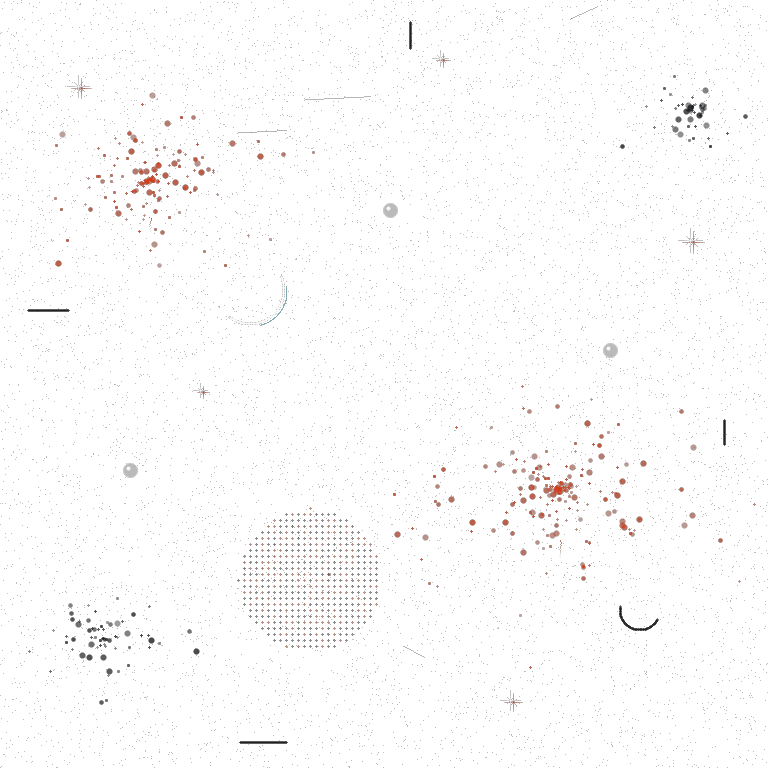
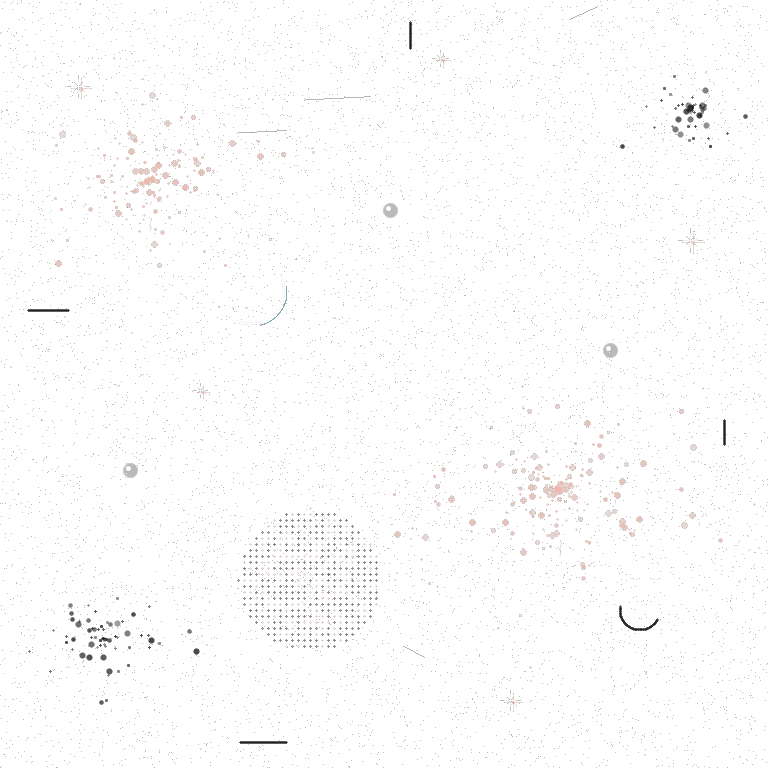
Buff the wall instead of splattering it.
The ground is a roller of council paint, a torn paste-up, and stencil overspray. The night grain is quieter so those marks read before the stipple, and day washes the same wall back.

diff --git a/css/cc.css b/css/cc.css
@@ -1,7 +1,8 @@
 /* ==========================================================================
    Club Copy — one stylesheet.
-   Night is the default: a light concrete wall, paint splatter, and a little chrome.
-   Day is the same wall bleached, with the paint faded. Archivo for text, Big Shoulders Display
+   Night is the default: a buffed concrete wall. Roller paint, a torn
+   paste-up, and the overspray from a stencil. Day is that wall bleached.
+   Archivo for text, Big Shoulders Display
    for titles, Plex Mono for data. Rules are ink. The signal colour marks
    state, not the header.
    ========================================================================== */
@@ -34,13 +35,11 @@
   --ease: cubic-bezier(.2, .8, .2, 1);
   --grain: url("/css/grain-film.png");
   --grain-size: 768px;
-  --splatter: url("/css/paint-splatter.png");
-  --splatter-fine: url("/css/paint-splatter-fine.png");
-  --splatter-size: 1680px 1500px;
-  --splatter-fine-size: 860px 720px;
+  --wall: url("/css/wall-buff.png");
+  --wall-size: 2000px 1600px;
   color-scheme: light;
 }
-/* Day is a paler sheet of the same grey. The same paint, faded. */
+/* Day is a paler sheet of the same grey. The same wall, washed. */
 html[data-theme="day"] {
   --bg: #efefed;
   --bg-2: #e3e3e0;
@@ -57,8 +56,7 @@ html[data-theme="day"] {
   --wall-chrome: rgba(255, 255, 255, .2);
   --grain: url("/css/grain-paper.png");
   --grain-size: 768px;
-  --splatter: url("/css/paint-splatter-day.png");
-  --splatter-fine: url("/css/paint-splatter-fine-day.png");
+  --wall: url("/css/wall-buff-day.png");
   color-scheme: light;
 }
 html:has(.sky) {
@@ -77,20 +75,14 @@ body {
     radial-gradient(88% 46% at 50% -12%, var(--wall-lift), transparent 64%),
     linear-gradient(118deg, transparent 36%, var(--wall-chrome) 47%, transparent 56%),
     var(--grain),
-    var(--splatter-fine),
-    var(--splatter);
-  background-repeat: no-repeat, no-repeat, repeat, repeat, repeat;
-  background-size: auto, auto, var(--grain-size) var(--grain-size), var(--splatter-fine-size), var(--splatter-size);
+    var(--wall);
+  background-repeat: no-repeat, no-repeat, repeat, repeat;
+  background-size: auto, auto, var(--grain-size) var(--grain-size), var(--wall-size);
   -webkit-font-smoothing: antialiased;
   min-height: 100svh;
   padding-bottom: var(--safe-b);
 }
 body.has-vcr-player { padding-bottom: calc(var(--dock-h) + var(--safe-b)); }
-@media (max-width: 699px) {
-  body {
-    background-size: auto, auto, var(--grain-size) var(--grain-size), 640px 536px, 1680px 1500px;
-  }
-}
 img { display: block; max-width: 100%; height: auto; }
 a { color: inherit; text-decoration: none; }
 a:hover { text-decoration: underline; text-underline-offset: .18em; text-decoration-thickness: 1px; }
